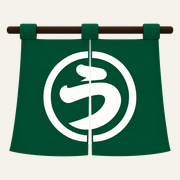
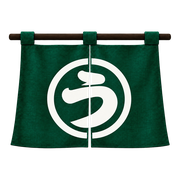
Add UGATTA noren branding to site header

Changed region(s): [[0.0278, 0.1111, 0.9722, 0.8889], [0.7222, 0.75, 0.75, 0.7778]]

diff --git a/css/style.css b/css/style.css
@@ -46,14 +46,14 @@ a:focus-visible,button:focus-visible,summary:focus-visible{outline:2px solid var
 
 .site-header{position:sticky;top:0;z-index:1000;background:#f0ede5;border-bottom:1px solid rgba(45,61,52,.2);backdrop-filter:blur(16px);-webkit-backdrop-filter:blur(16px)}
 .header-inner{height:72px;display:flex;align-items:center;justify-content:space-between;gap:32px}
-.brand{display:inline-flex;align-items:flex-end;flex-shrink:0}
-.brand-mark{display:none}
+.brand{display:inline-flex;align-items:center;flex-shrink:0;gap:12px}
+.brand-mark{display:none}.brand-noren{display:block;flex:none;line-height:0}.brand-noren img{display:block;width:auto;height:39px;object-fit:contain}
 .brand-copy{display:flex;align-items:baseline;gap:14px;line-height:1}
 .brand-copy strong{font-family:var(--latin);font-size:22px;font-weight:500;letter-spacing:.2em}
 .brand-copy small{color:#6c7470;font-size:12px;letter-spacing:.06em}
 .brand--topic .brand-copy{flex-direction:row-reverse;align-items:center;gap:14px;line-height:1.2}
 .brand--topic .brand-copy strong{font-family:var(--sans);font-size:13px;font-weight:500;color:#3e4741;letter-spacing:.06em;white-space:nowrap}
-.brand--topic .brand-copy small{font-family:var(--latin);font-size:19px;font-weight:500;color:#202522;letter-spacing:.22em;line-height:1;padding-right:14px;border-right:1px solid rgba(45,61,52,.3)}
+.brand--topic .brand-copy small{font-family:var(--latin);font-size:19px;font-weight:500;color:#202522;letter-spacing:.14em;line-height:1;padding-right:14px;border-right:1px solid rgba(45,61,52,.3)}
 .global-nav{display:flex;align-items:center;gap:24px}
 .global-nav ul{display:flex;align-items:center;gap:22px;list-style:none;margin:0;padding:0}
 .global-nav li a{position:relative;font-size:12px;font-weight:500;color:#2d3d34;transition:color .2s}
@@ -184,7 +184,7 @@ a:focus-visible,button:focus-visible,summary:focus-visible{outline:2px solid var
 .tool-directory-grid{grid-template-columns:1fr}.tool-directory-card{min-height:auto}.service-detail{grid-template-columns:1fr;gap:38px}.service-detail:nth-child(even) .service-detail__image{order:0}.case-detail__header{grid-template-columns:1fr;gap:18px}.case-client{text-align:left}.case-flow{grid-template-columns:1fr}.case-flow>div,.case-flow>div:nth-child(odd){padding-left:0;padding-right:0}.case-flow>div+div{padding-left:0}.value-grid,.contact-topic-grid{grid-template-columns:1fr;gap:28px}.footer-grid{grid-template-columns:1fr;gap:58px}.contact-card{padding:34px 0;border-left:0;border-top:1px solid rgba(255,255,255,.28)}
 }
 @media(max-width:620px){
-  .brand--topic .brand-copy{gap:10px}.brand--topic .brand-copy small{display:block;font-size:16px;padding-right:10px}.brand--topic .brand-copy strong{font-size:11px}
+  .brand--topic{gap:9px}.brand-noren img{height:32px}.brand--topic .brand-copy{gap:7px}.brand--topic .brand-copy small{display:block;font-size:16px;letter-spacing:.09em;padding-right:9px}.brand--topic .brand-copy strong{font-size:10px}
   .container{width:min(calc(100% - 30px),var(--container))}.section{padding:56px 0}.section-heading{align-items:flex-start;flex-direction:column;gap:22px;margin-bottom:32px}.desktop-only{display:none}.brand-copy small{display:none}
 
 .service-facts{grid-template-columns:1fr}.process-list{grid-template-columns:repeat(2,1fr);gap:24px 20px}.process-list h3{margin:8px 0 4px}

diff --git a/about.html b/about.html
@@ -29,14 +29,14 @@
 <meta content="宿泊・観光事業者のDX・業務改善、人材育成、商品開発、集客を支援するUGATTAの会社概要です。" name="twitter:description"/>
 <meta content="https://ugatta-llc.com/og-image.jpg" name="twitter:image"/>
 <meta content="#41574A" name="theme-color"/>
-<link href="favicon.ico?v=20261015-noren" rel="icon"/>
-<link href="favicon-16x16.png?v=20261015-noren" rel="icon" sizes="16x16" type="image/png"/>
-<link href="favicon-32x32.png?v=20261015-noren" rel="icon" sizes="32x32" type="image/png"/>
-<link href="apple-touch-icon.png?v=20261015-noren" rel="apple-touch-icon"/>
+<link href="favicon.ico?v=20261015-noren-hd" rel="icon"/>
+<link href="favicon-16x16.png?v=20261015-noren-hd" rel="icon" sizes="16x16" type="image/png"/>
+<link href="favicon-32x32.png?v=20261015-noren-hd" rel="icon" sizes="32x32" type="image/png"/>
+<link href="apple-touch-icon.png?v=20261015-noren-hd" rel="apple-touch-icon"/>
 <link href="https://fonts.googleapis.com" rel="preconnect"/>
 <link crossorigin="" href="https://fonts.gstatic.com" rel="preconnect"/>
 <link href="https://fonts.googleapis.com/css2?family=Shippori+Mincho:wght@500&amp;display=swap" rel="stylesheet"/>
-<link href="css/style.css?v=20261014b" rel="stylesheet"/>
+<link href="css/style.css?v=20261015-header" rel="stylesheet"/>
 <script type="application/ld+json">
 {"@context":"https://schema.org","@graph":[{"@type":"BreadcrumbList","itemListElement":[{"@type":"ListItem","position":1,"name":"トップ","item":"https://ugatta-llc.com/"},{"@type":"ListItem","position":2,"name":"会社概要","item":"https://ugatta-llc.com/about.html"}]},{"@type":"Organization","@id":"https://ugatta-llc.com/#organization","name":"合同会社UGATTA","alternateName":"UGATTA","url":"https://ugatta-llc.com/","description":"宿泊・観光事業者を中心としたDX・業務改善、人材育成、商品開発、集客を支援する会社です。","foundingDate":"2024-11","address":{"@type":"PostalAddress","addressLocality":"松本市","addressRegion":"長野県","addressCountry":"JP"}}]}
 </script>
@@ -46,7 +46,7 @@
 <header class="site-header" data-header="">
 <div class="container header-inner">
 <a aria-label="宿泊・観光DX支援 UGATTA トップページ" class="brand brand--topic" href="./">
-<span aria-hidden="true" class="brand-mark">U</span>
+<picture aria-hidden="true" class="brand-noren"><source srcset="images/brand/ugatta-noren-mark-256.webp" type="image/webp"/><img alt="" decoding="async" height="187" src="images/brand/ugatta-noren-mark-256.png" width="256"/></picture>
 <span class="brand-copy"><strong>宿泊・観光DX支援</strong><small>UGATTA</small></span>
 </a>
 <button aria-controls="global-nav" aria-expanded="false" aria-label="メニューを開く" class="menu-toggle" data-menu-toggle="" type="button">

diff --git a/404.html b/404.html
@@ -3,17 +3,17 @@
 <html lang="ja">
 <head>
 <script src="js/script.js?v=20261014b"></script>
-<meta charset="utf-8"/><meta content="width=device-width, initial-scale=1.0" name="viewport"/><title>ページが見つかりません｜合同会社UGATTA</title><meta content="noindex,nofollow,noarchive" name="robots"/><meta content="#41574A" name="theme-color"/><link href="favicon.ico?v=20261015-noren" rel="icon"/>
-<link href="favicon-16x16.png?v=20261015-noren" rel="icon" sizes="16x16" type="image/png"/>
-<link href="favicon-32x32.png?v=20261015-noren" rel="icon" sizes="32x32" type="image/png"/>
-<link href="apple-touch-icon.png?v=20261015-noren" rel="apple-touch-icon"/><link href="https://fonts.googleapis.com" rel="preconnect"/><link crossorigin="" href="https://fonts.gstatic.com" rel="preconnect"/><link href="https://fonts.googleapis.com/css2?family=Shippori+Mincho:wght@500&amp;display=swap" rel="stylesheet"/><link href="css/style.css?v=20261014b" rel="stylesheet"/>
+<meta charset="utf-8"/><meta content="width=device-width, initial-scale=1.0" name="viewport"/><title>ページが見つかりません｜合同会社UGATTA</title><meta content="noindex,nofollow,noarchive" name="robots"/><meta content="#41574A" name="theme-color"/><link href="favicon.ico?v=20261015-noren-hd" rel="icon"/>
+<link href="favicon-16x16.png?v=20261015-noren-hd" rel="icon" sizes="16x16" type="image/png"/>
+<link href="favicon-32x32.png?v=20261015-noren-hd" rel="icon" sizes="32x32" type="image/png"/>
+<link href="apple-touch-icon.png?v=20261015-noren-hd" rel="apple-touch-icon"/><link href="https://fonts.googleapis.com" rel="preconnect"/><link crossorigin="" href="https://fonts.gstatic.com" rel="preconnect"/><link href="https://fonts.googleapis.com/css2?family=Shippori+Mincho:wght@500&amp;display=swap" rel="stylesheet"/><link href="css/style.css?v=20261015-header" rel="stylesheet"/>
 </head>
 <body class="error-page">
 <a class="skip-link" href="#main">本文へ移動</a>
 <header class="site-header" data-header="">
 <div class="container header-inner">
 <a aria-label="宿泊・観光DX支援 UGATTA トップページ" class="brand brand--topic" href="./">
-<span aria-hidden="true" class="brand-mark">U</span>
+<picture aria-hidden="true" class="brand-noren"><source srcset="images/brand/ugatta-noren-mark-256.webp" type="image/webp"/><img alt="" decoding="async" height="187" src="images/brand/ugatta-noren-mark-256.png" width="256"/></picture>
 <span class="brand-copy"><strong>宿泊・観光DX支援</strong><small>UGATTA</small></span>
 </a>
 <button aria-controls="global-nav" aria-expanded="false" aria-label="メニューを開く" class="menu-toggle" data-menu-toggle="" type="button">

diff --git a/ugatta_case_studies.html b/ugatta_case_studies.html
@@ -29,14 +29,14 @@
 <meta content="旅館・宿泊施設のインバウンド商品造成、海外OTA掲載、PMS刷新、業務改善の支援事例をご紹介します。" name="twitter:description"/>
 <meta content="https://ugatta-llc.com/og-image.jpg" name="twitter:image"/>
 <meta content="#41574A" name="theme-color"/>
-<link href="favicon.ico?v=20261015-noren" rel="icon"/>
-<link href="favicon-16x16.png?v=20261015-noren" rel="icon" sizes="16x16" type="image/png"/>
-<link href="favicon-32x32.png?v=20261015-noren" rel="icon" sizes="32x32" type="image/png"/>
-<link href="apple-touch-icon.png?v=20261015-noren" rel="apple-touch-icon"/>
+<link href="favicon.ico?v=20261015-noren-hd" rel="icon"/>
+<link href="favicon-16x16.png?v=20261015-noren-hd" rel="icon" sizes="16x16" type="image/png"/>
+<link href="favicon-32x32.png?v=20261015-noren-hd" rel="icon" sizes="32x32" type="image/png"/>
+<link href="apple-touch-icon.png?v=20261015-noren-hd" rel="apple-touch-icon"/>
 <link href="https://fonts.googleapis.com" rel="preconnect"/>
 <link crossorigin="" href="https://fonts.gstatic.com" rel="preconnect"/>
 <link href="https://fonts.googleapis.com/css2?family=Shippori+Mincho:wght@500&amp;display=swap" rel="stylesheet"/>
-<link href="css/style.css?v=20261014b" rel="stylesheet"/>
+<link href="css/style.css?v=20261015-header" rel="stylesheet"/>
 <script type="application/ld+json">
 {"@context":"https://schema.org","@type":"BreadcrumbList","itemListElement":[{"@type":"ListItem","position":1,"name":"トップ","item":"https://ugatta-llc.com/"},{"@type":"ListItem","position":2,"name":"支援事例","item":"https://ugatta-llc.com/ugatta_case_studies.html"}]}
 </script>
@@ -46,7 +46,7 @@
 <header class="site-header" data-header="">
 <div class="container header-inner">
 <a aria-label="宿泊・観光DX支援 UGATTA トップページ" class="brand brand--topic" href="./">
-<span aria-hidden="true" class="brand-mark">U</span>
+<picture aria-hidden="true" class="brand-noren"><source srcset="images/brand/ugatta-noren-mark-256.webp" type="image/webp"/><img alt="" decoding="async" height="187" src="images/brand/ugatta-noren-mark-256.png" width="256"/></picture>
 <span class="brand-copy"><strong>宿泊・観光DX支援</strong><small>UGATTA</small></span>
 </a>
 <button aria-controls="global-nav" aria-expanded="false" aria-label="メニューを開く" class="menu-toggle" data-menu-toggle="" type="button">

diff --git a/services.html b/services.html
@@ -29,14 +29,14 @@
 <meta content="宿泊施設のDX・業務改善、研修、商品開発、インバウンド集客を支援します。" name="twitter:description"/>
 <meta content="https://ugatta-llc.com/og-image.jpg" name="twitter:image"/>
 <meta content="#41574A" name="theme-color"/>
-<link href="favicon.ico?v=20261015-noren" rel="icon"/>
-<link href="favicon-16x16.png?v=20261015-noren" rel="icon" sizes="16x16" type="image/png"/>
-<link href="favicon-32x32.png?v=20261015-noren" rel="icon" sizes="32x32" type="image/png"/>
-<link href="apple-touch-icon.png?v=20261015-noren" rel="apple-touch-icon"/>
+<link href="favicon.ico?v=20261015-noren-hd" rel="icon"/>
+<link href="favicon-16x16.png?v=20261015-noren-hd" rel="icon" sizes="16x16" type="image/png"/>
+<link href="favicon-32x32.png?v=20261015-noren-hd" rel="icon" sizes="32x32" type="image/png"/>
+<link href="apple-touch-icon.png?v=20261015-noren-hd" rel="apple-touch-icon"/>
 <link href="https://fonts.googleapis.com" rel="preconnect"/>
 <link crossorigin="" href="https://fonts.gstatic.com" rel="preconnect"/>
 <link href="https://fonts.googleapis.com/css2?family=Shippori+Mincho:wght@500&amp;display=swap" rel="stylesheet"/>
-<link href="css/style.css?v=20261014b" rel="stylesheet"/>
+<link href="css/style.css?v=20261015-header" rel="stylesheet"/>
 <script type="application/ld+json">
 {"@context":"https://schema.org","@graph":[
 {"@type":"BreadcrumbList","itemListElement":[{"@type":"ListItem","position":1,"name":"トップ","item":"https://ugatta-llc.com/"},{"@type":"ListItem","position":2,"name":"事業内容","item":"https://ugatta-llc.com/services.html"}]},
@@ -54,7 +54,7 @@
 <header class="site-header" data-header="">
 <div class="container header-inner">
 <a aria-label="宿泊・観光DX支援 UGATTA トップページ" class="brand brand--topic" href="./">
-<span aria-hidden="true" class="brand-mark">U</span>
+<picture aria-hidden="true" class="brand-noren"><source srcset="images/brand/ugatta-noren-mark-256.webp" type="image/webp"/><img alt="" decoding="async" height="187" src="images/brand/ugatta-noren-mark-256.png" width="256"/></picture>
 <span class="brand-copy"><strong>宿泊・観光DX支援</strong><small>UGATTA</small></span>
 </a>
 <button aria-controls="global-nav" aria-expanded="false" aria-label="メニューを開く" class="menu-toggle" data-menu-toggle="" type="button">

diff --git a/contact.html b/contact.html
@@ -29,14 +29,14 @@
 <meta content="予約管理、PMS、研修、体験商品、海外OTA掲載などのご相談ページです。" name="twitter:description"/>
 <meta content="https://ugatta-llc.com/og-image.jpg" name="twitter:image"/>
 <meta content="#41574A" name="theme-color"/>
-<link href="favicon.ico?v=20261015-noren" rel="icon"/>
-<link href="favicon-16x16.png?v=20261015-noren" rel="icon" sizes="16x16" type="image/png"/>
-<link href="favicon-32x32.png?v=20261015-noren" rel="icon" sizes="32x32" type="image/png"/>
-<link href="apple-touch-icon.png?v=20261015-noren" rel="apple-touch-icon"/>
+<link href="favicon.ico?v=20261015-noren-hd" rel="icon"/>
+<link href="favicon-16x16.png?v=20261015-noren-hd" rel="icon" sizes="16x16" type="image/png"/>
+<link href="favicon-32x32.png?v=20261015-noren-hd" rel="icon" sizes="32x32" type="image/png"/>
+<link href="apple-touch-icon.png?v=20261015-noren-hd" rel="apple-touch-icon"/>
 <link href="https://fonts.googleapis.com" rel="preconnect"/>
 <link crossorigin="" href="https://fonts.gstatic.com" rel="preconnect"/>
 <link href="https://fonts.googleapis.com/css2?family=Shippori+Mincho:wght@500&amp;display=swap" rel="stylesheet"/>
-<link href="css/style.css?v=20261014b" rel="stylesheet"/>
+<link href="css/style.css?v=20261015-header" rel="stylesheet"/>
 <script type="application/ld+json">
 {"@context":"https://schema.org","@type":"BreadcrumbList","itemListElement":[{"@type":"ListItem","position":1,"name":"トップ","item":"https://ugatta-llc.com/"},{"@type":"ListItem","position":2,"name":"お問い合わせ","item":"https://ugatta-llc.com/contact.html"}]}
 </script>
@@ -46,7 +46,7 @@
 <header class="site-header" data-header="">
 <div class="container header-inner">
 <a aria-label="宿泊・観光DX支援 UGATTA トップページ" class="brand brand--topic" href="./">
-<span aria-hidden="true" class="brand-mark">U</span>
+<picture aria-hidden="true" class="brand-noren"><source srcset="images/brand/ugatta-noren-mark-256.webp" type="image/webp"/><img alt="" decoding="async" height="187" src="images/brand/ugatta-noren-mark-256.png" width="256"/></picture>
 <span class="brand-copy"><strong>宿泊・観光DX支援</strong><small>UGATTA</small></span>
 </a>
 <button aria-controls="global-nav" aria-expanded="false" aria-label="メニューを開く" class="menu-toggle" data-menu-toggle="" type="button">

diff --git a/index.html b/index.html
@@ -29,15 +29,15 @@
 <meta content="旅館・ホテルのDX・業務改善から体験商品、海外OTA掲載まで、現場に合わせて支援します。" name="twitter:description"/>
 <meta content="https://ugatta-llc.com/og-image.jpg" name="twitter:image"/>
 <meta content="#41574A" name="theme-color"/>
-<link href="favicon.ico?v=20261015-noren" rel="icon"/>
-<link href="favicon-16x16.png?v=20261015-noren" rel="icon" sizes="16x16" type="image/png"/>
-<link href="favicon-32x32.png?v=20261015-noren" rel="icon" sizes="32x32" type="image/png"/>
-<link href="apple-touch-icon.png?v=20261015-noren" rel="apple-touch-icon"/>
+<link href="favicon.ico?v=20261015-noren-hd" rel="icon"/>
+<link href="favicon-16x16.png?v=20261015-noren-hd" rel="icon" sizes="16x16" type="image/png"/>
+<link href="favicon-32x32.png?v=20261015-noren-hd" rel="icon" sizes="32x32" type="image/png"/>
+<link href="apple-touch-icon.png?v=20261015-noren-hd" rel="apple-touch-icon"/>
 <link href="https://fonts.googleapis.com" rel="preconnect"/>
 <link crossorigin="" href="https://fonts.gstatic.com" rel="preconnect"/>
 <link href="https://fonts.googleapis.com/css2?family=Shippori+Mincho:wght@500;600&amp;display=swap" rel="stylesheet"/>
-<link href="css/style.css?v=20261014b" rel="stylesheet"/>
-<link href="css/home.css?v=20261015-noren" rel="stylesheet">
+<link href="css/style.css?v=20261015-header" rel="stylesheet"/>
+<link href="css/home.css?v=20261015-noren-hd" rel="stylesheet">
 <script type="application/ld+json">
   {
     "@context":"https://schema.org",
@@ -80,6 +80,7 @@
 <header class="site-header" data-header="">
 <div class="container header-inner">
 <a aria-label="宿泊・観光DX支援 UGATTA トップページ" class="brand brand--topic" href="./">
+<picture aria-hidden="true" class="brand-noren"><source srcset="images/brand/ugatta-noren-mark-256.webp" type="image/webp"/><img alt="" decoding="async" height="187" src="images/brand/ugatta-noren-mark-256.png" width="256"/></picture>
 <span class="brand-copy"><strong>宿泊・観光DX支援</strong><small>UGATTA</small></span>
 </a>
 <button aria-controls="global-nav" aria-expanded="false" aria-label="メニューを開く" class="menu-toggle" data-menu-toggle="" type="button"><span></span><span></span><span></span></button>

diff --git a/tests/test_home_redesign.py b/tests/test_home_redesign.py
@@ -59,7 +59,9 @@ class HomeRedesignTests(unittest.TestCase):
         self.assertEqual(len(heroes), 1)
         self.assertNotEqual(heroes[0].get("loading"), "lazy")
         for img in images:
-            if img not in heroes:
+            if img.get("src") == "images/brand/ugatta-noren-mark-256.png":
+                self.assertNotEqual(img.get("loading"), "lazy")
+            elif img not in heroes:
                 self.assertEqual(img.get("loading"), "lazy")
         self.assertEqual(heroes[0]["src"], "images/brand/ugatta-noren-hero.png")
         self.assertTrue(heroes[0]["alt"].strip())
@@ -85,6 +87,24 @@ class HomeRedesignTests(unittest.TestCase):
         self.assertTrue(any(href.startswith("css/home.css?") for href in styles))
         for filename in ("services.html", "about.html", "ugatta_case_studies.html", "contact.html", "404.html"):
             self.assertFalse(any(link.get("href", "").startswith("css/home.css") for link in Elements(filename).tagged("link")))
+
+    def test_public_shell_uses_the_noren_header_brand(self):
+        for filename in ("index.html", "services.html", "about.html", "ugatta_case_studies.html", "contact.html", "404.html"):
+            with self.subTest(filename=filename):
+                page = Elements(filename)
+                images = page.tagged("img")
+                sources = page.tagged("source")
+                self.assertTrue(any(
+                    image.get("src") == "images/brand/ugatta-noren-mark-256.png"
+                    and image.get("width") == "256"
+                    and image.get("height") == "187"
+                    for image in images
+                ))
+                self.assertTrue(any(
+                    source.get("srcset") == "images/brand/ugatta-noren-mark-256.webp"
+                    and source.get("type") == "image/webp"
+                    for source in sources
+                ))
 
 
 if __name__ == "__main__":
